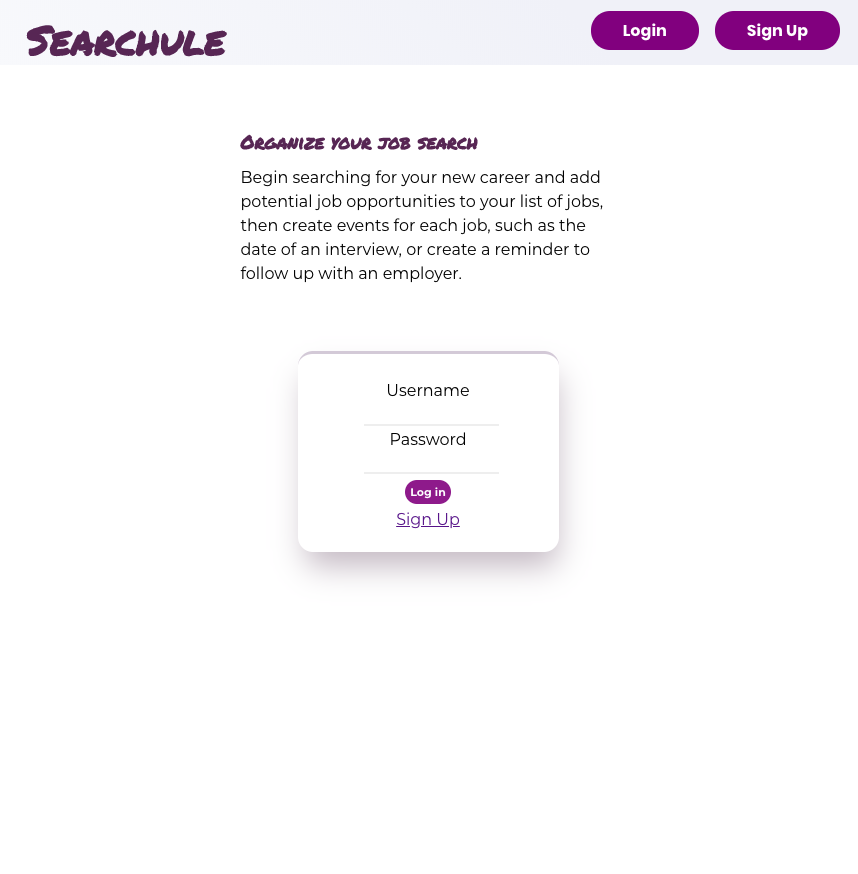
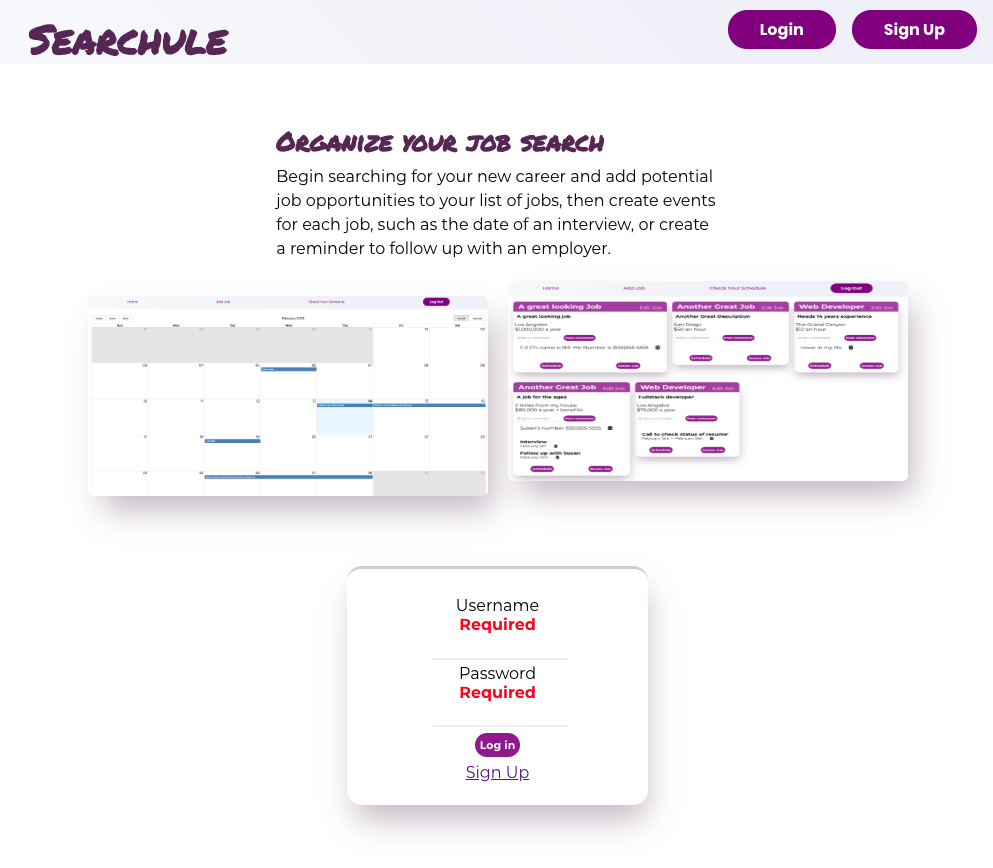
styled the landing pge

diff --git a/src/components/landing-page.js b/src/components/landing-page.js
@@ -1,9 +1,11 @@
 import React from 'react';
 import { connect } from 'react-redux';
 import { Redirect } from 'react-router-dom';
-
+import calendarWithEvents from '../screenshots/calendarWithEvents.png';
+import jobCards from '../screenshots/jobCards.png';
 import LoginForm from '../components/auth/login-form';
 import PreLoginHeader from './auth/preLoginHeader';
+import './styles/landing.css';
 
 export function LandingPage(props) {
   // If we are logged in redirect straight to the user's dashboard
@@ -12,16 +14,29 @@ export function LandingPage(props) {
   }
 
   return (
-    <div className="home">
+    <div className="home-container">
       <PreLoginHeader />
       <div className="app-description">
         <h3>Organize your job search</h3>
+
         <p>
           Begin searching for your new career and add potential job
           opportunities to your list of jobs, then create events for each job,
           such as the date of an interview, or create a reminder to follow up
           with an employer.
         </p>
+        <div className="pics ">
+          <img
+            className="pic calendarImg"
+            src={calendarWithEvents}
+            alt="a calendar with events"
+          />
+          <img
+            className="pic cardImg"
+            src={jobCards}
+            alt="multiple cards with descriptions of jobs"
+          />
+        </div>
       </div>
 
       <LoginForm />

diff --git a/src/components/styles/landing.css b/src/components/styles/landing.css
@@ -1,0 +1,79 @@
+.home-container {
+  display: flex;
+  margin: 0;
+  flex-direction: column;
+  width: 100vw;
+}
+
+.app-description {
+  line-height: 150%;
+  font-family: 'Montserrat', sans-serif;
+  display: flex;
+  flex-direction: column;
+  padding: 30px;
+  width: 50%;
+  margin: 35px auto;
+}
+
+.app-description h3 {
+  font-family: 'Permanent Marker';
+  color: #562855;
+  font-size: 26px;
+  margin-bottom: 12px;
+}
+
+.description-pic-container {
+  display: flex;
+  flex-direction: column;
+  width: 100vw;
+}
+
+.pics {
+  margin-top: 20px;
+  align-self: center;
+  display: flex;
+}
+.pic {
+  width: 400px;
+  height: 200px;
+  border-radius: 6px;
+  -webkit-box-shadow: 10px 19px 52px -5px rgba(82, 52, 82, 0.35);
+  -moz-box-shadow: 10px 19px 52px -5px rgba(82, 52, 82, 0.35);
+  box-shadow: 10px 19px 52px -5px rgba(82, 52, 82, 0.35);
+}
+
+.calendarImg {
+  margin: 15px 20px 0 0;
+}
+
+@media (max-width: 1000) {
+  .app-description {
+    widows: 30%;
+  }
+}
+@media (max-width: 800px) {
+  .home-container {
+    width: 100vw;
+  }
+
+  .pics {
+    margin-top: 20px;
+    align-self: center;
+    display: flex;
+    flex-wrap: wrap;
+  }
+
+  .cardImg {
+    margin: 15px 20px 0 0;
+  }
+}
+
+@media (max-width: 500px) {
+  .app-description h1 {
+    font-size: 15;
+  }
+  .pic {
+    width: 320px;
+    height: 120px;
+  }
+}

diff --git a/src/components/jobCard.js b/src/components/jobCard.js
@@ -37,7 +37,17 @@ export class JobCard extends Component {
         return (
           <li key={i} className="events-list">
             <h4>{event.title}</h4>
-            <p className="event-dates">{start}</p>
+            <p className="event-dates">
+              {start}{' '}
+              <span>
+                <i
+                  className="fas fa-trash-alt"
+                  onClick={() =>
+                    this.props.dispatch(deleteComment(event.id, this.props.id))
+                  }
+                />
+              </span>
+            </p>
           </li>
         );
       }
@@ -47,6 +57,14 @@ export class JobCard extends Component {
           <h4>{event.title}</h4>
           <p className="event-dates">
             {start} &mdash; {end}
+            <span>
+              <i
+                className="fas fa-trash-alt"
+                onClick={() =>
+                  this.props.dispatch(deleteComment(event.id, this.props.id))
+                }
+              />
+            </span>
           </p>
         </li>
       );

diff --git a/src/components/styles/preLoginHeader.css b/src/components/styles/preLoginHeader.css
@@ -16,6 +16,7 @@
   justify-content: flex-end;
   align-items: baseline;
   position: relative;
+  width: 100%;
 }
 
 .login-link,
@@ -36,15 +37,13 @@ h1 {
   left: 34px;
 }
 
-@media (max-width: 500px) {
+@media (max-width: 505px) {
   .login-link,
   .signup-link {
     padding: 5px 15px;
 
     font-weight: normal;
   }
-}
-@media (max-width: 430px) {
   .pre-login-header {
     margin-top: 5px;
     display: flex;
@@ -55,7 +54,7 @@ h1 {
   }
 }
 
-@media (max-width: 390px) {
+@media (max-width: 400px) {
   .pre-login-header {
     margin-top: 5px;
     display: flex;
@@ -65,16 +64,10 @@ h1 {
   .pre-login-header h1 {
     font-size: 25px;
   }
-}
-
-@media (max-width: 360px) {
-  .pre-login-header h1 {
-    font-size: 15px;
-  }
 
   .login-link,
   .signup-link {
     padding: 2px 5px;
-    font-size: 10px;
+    font-size: 12px;
   }
 }

diff --git a/src/App.css b/src/App.css
@@ -51,23 +51,6 @@ input[type='text'] {
   font-family: 'Montserrat', sans-serif;
 }
 
-.app-description {
-  line-height: 150%;
-  font-family: 'Montserrat', sans-serif;
-  display: flex;
-  flex-direction: column;
-  padding: 30px;
-  width: 50%;
-  margin: 35px auto;
-  position: relative;
-}
-
-.app-description h3 {
-  font-family: 'Permanent Marker';
-  color: #562855;
-  margin-bottom: 12px;
-}
-
 /* .app-description p {
   position: absolute;
   bot
@@ -84,10 +67,4 @@ input[type='text'] {
   justify-content: center;
   height: 100vh;
   align-items: center;
-}
-
-@media (max-width: 1000) {
-  .app-description {
-    widows: 30%;
-  }
 }

diff --git a/src/components/styles/loginForm.css b/src/components/styles/loginForm.css
@@ -13,7 +13,7 @@
   border-top-style: outset;
   border-top-color: #d3c9d8;
 
-  margin: 15px auto;
+  margin: 5px auto;
 }
 
 label {
@@ -33,6 +33,11 @@ label {
 @media (max-width: 1100px) {
   .login-form {
     width: 30%;
+  }
+}
+@media (max-width: 600px) {
+  .login-form {
+    width: 50%;
   }
 }
 @media (max-width: 350px) {

diff --git a/README.md b/README.md
@@ -1,4 +1,4 @@
-# 🤘 Checkout a demo at [searchule.com](https://searchule.herokuapp.com/)
+# 🤘 Check a demo out at [searchule.com](https://searchule.herokuapp.com/)
 
 This app allows you to mitigate the stresses of a career search
 By allowing users to add potential jobs to their dashboard and create an event based on that job. Events can include anything from calling a potential employer to what day their interview is at.
